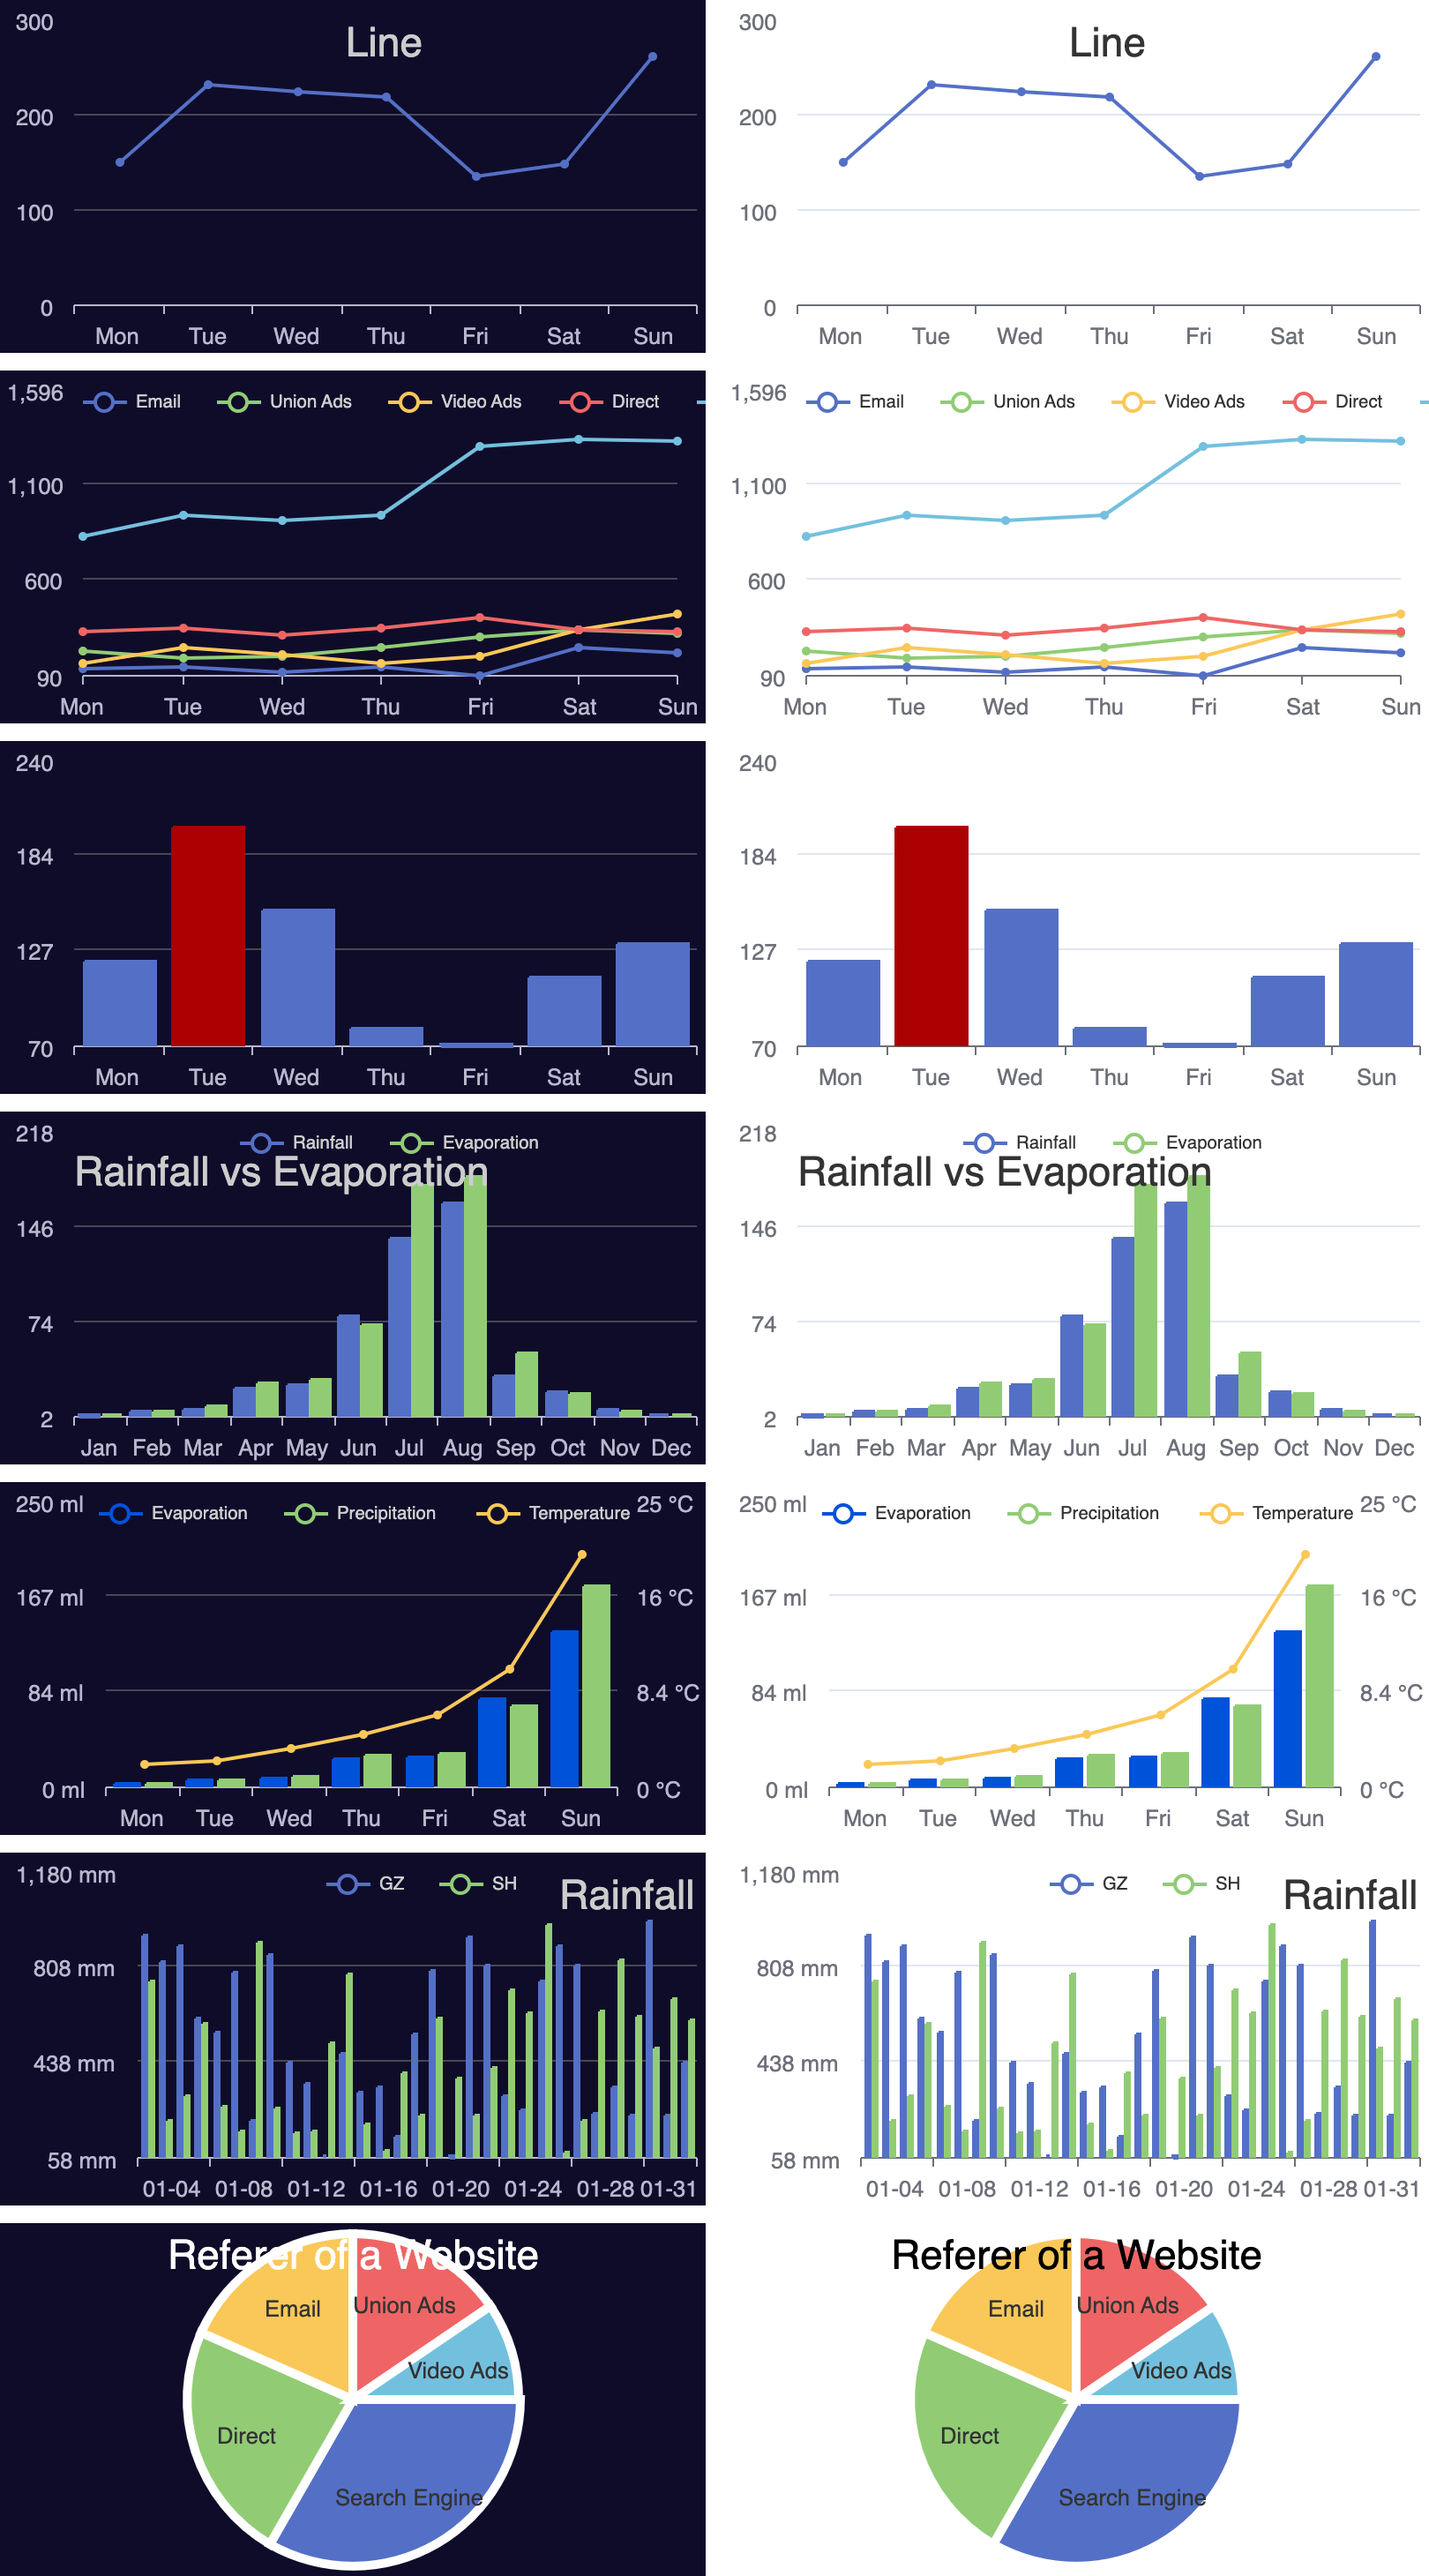
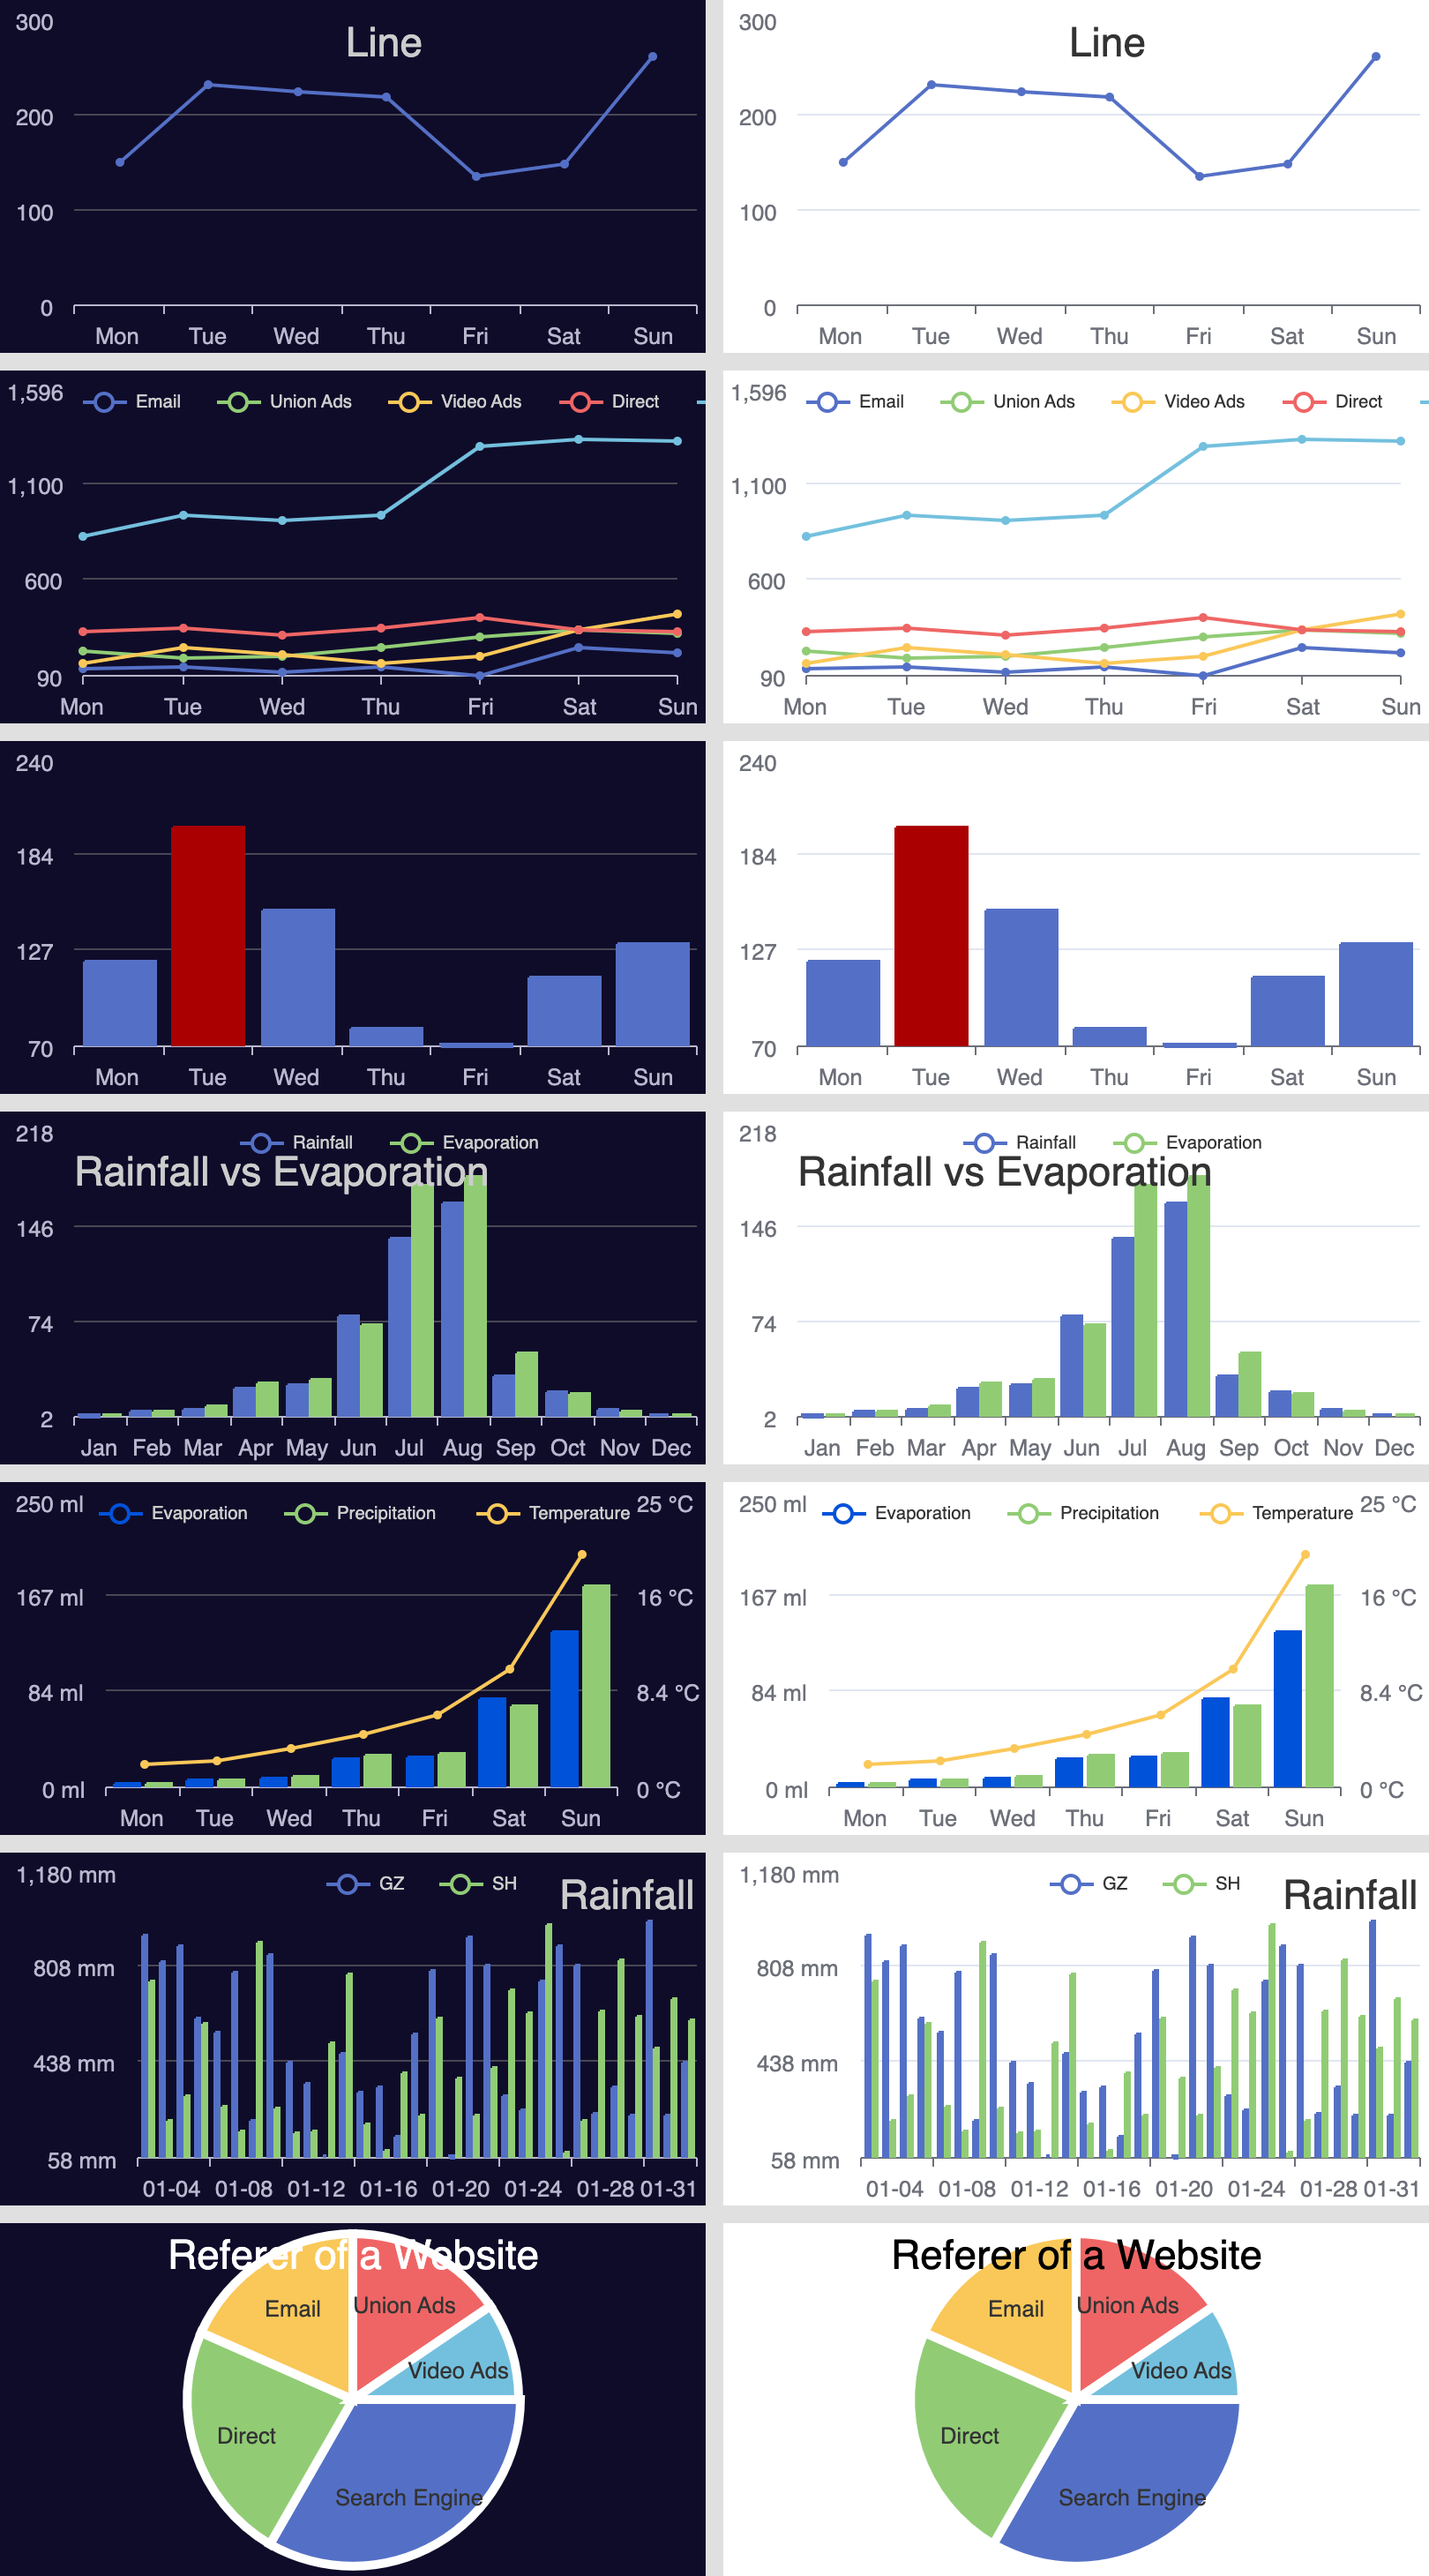
docs: update screenshot

Changed region(s): [[0.0, 0.0, 1.0, 1.0]]

diff --git a/examples/demo/main.go b/examples/demo/main.go
@@ -15,6 +15,9 @@ var html = `<!DOCTYPE html>
 		<link type="text/css" rel="styleSheet" href="https://unpkg.com/normalize.css@8.0.1/normalize.css" />
 		<meta name="viewport" content="width=device-width, initial-scale=1.0" />
 		<style>
+			body {
+				background-color: #e0e0e0;
+			}
 			.charts {
 				width: 830px;
 				margin: 10px auto;
